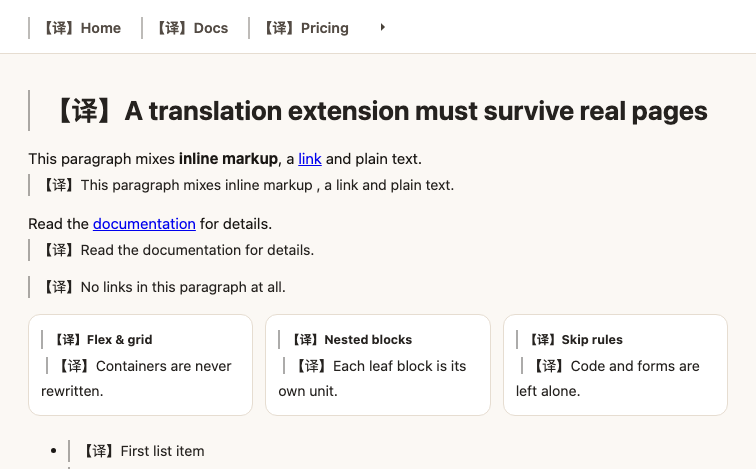
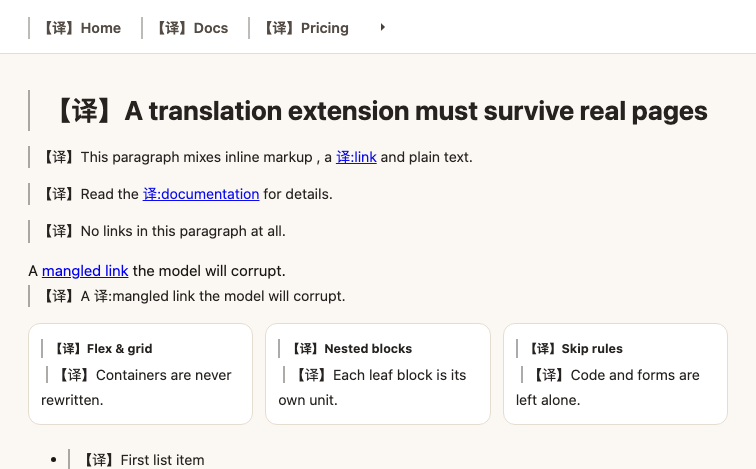
feat: 「仅译文」模式下的译文也带可点击的超链接
此前仅译文模式对含链接的段落只能退回双语（隐藏原文会连带隐藏 <a>）。现在改用
占位符对齐，让译文自己带上链接：

1. 扫描阶段把每个 <a href> 的文字包成 ⟦1⟧链接文字⟦/1⟧，并记下元素引用
2. 提示词要求模型原样保留成对标记
3. 译文回来后按标记切成「文本段 / 链接段」重建译文节点：文本用文本节点，链接用
   cloneNode(false) 浅克隆（保留 href/class/target），链接文字放进克隆体

三级降级，保证模型写坏标记时不会出乱码：
- 标记完整       -> 重建，译文里链接可点
- 标记残缺/重号  -> 该段退回「保留原文 + 译文」，链接照常可用
- 用户显式选择   -> 允许「严格替换」（接受丢链接）

踩的坑：第一版清洗正则 /⟦\/?\d+⟧/g 匹配不到 ⟧/1⟧ 这种「缺了开括号」的残缺形态
（模型真的会这么写），页面上留下了乱码。改用容错正则，并新增一个专门模拟模型
写坏标记的 E2E 用例，断言「不残留乱码 + 链接仍可用」。

设置项 page.replaceLinkMode：translate（默认）/ keep / strict。
显示模式变化时改为触发 retranslate（走缓存），因为两种模式的 DOM 结构不同。

真机效果（Wikipedia，仅译文模式）：
  442 段全译，427 段真正替换了原文（此前只有 75 段）
  519 个链接全部可见可点，链接文字也翻译了（Donate -> 捐赠）
  残留乱码 0

测试：test-core 77 + test-dom 48 + e2e 37，全绿

diff --git a/src/content/page/render.js b/src/content/page/render.js
@@ -30,6 +30,16 @@
   const TEXTWRAP_CLASS = 'lingua-pg-textwrap';
   const ROOT_FLAG = 'lingua-pg-show-src';
   const LINK_MARK = 'linguaLink';
+  const LINK_OK = 'linguaLinkKept';
+
+  const MARK_RE = /⟦(\d+)⟧([\s\S]*?)⟦\/\1⟧/g;
+  /**
+   * Tolerant cleanup for placeholder residue. Models occasionally emit a mangled
+   * marker (observed in the wild: `⟦1⟧X⟦/1⟧` came back as `X⟧/1⟧`, losing the
+   * opening bracket). A strict pattern would leave that on screen, so match any
+   * bracket run that still looks like a marker.
+   */
+  const MARK_ANY_RE = /⟦\s*\/?\s*\d*\s*⟧?|⟧\s*\/?\s*\d*\s*⟧?|\/\s*\d+\s*⟧/g;
 
   const CSS = `
 .lingua-pg-dst{
@@ -139,6 +149,61 @@ html.${ROOT_FLAG} .lingua-pg-replace > .lingua-pg-src{ display:revert; }
     return parent;
   }
 
+  /** Remove any leftover placeholders (used for bilingual display and safety). */
+  function stripMarks(text) {
+    return String(text || '').replace(MARK_ANY_RE, '');
+  }
+
+  /**
+   * Split a translated block back into text runs and link runs using the
+   * placeholders the scanner inserted. Returns null when the model dropped,
+   * duplicated or renumbered a marker — the caller then keeps the original
+   * visible instead of silently losing the links.
+   *
+   * @returns {Array<{type:'text'|'link', value:string, index?:number}>|null}
+   */
+  function parseMarked(text, expected) {
+    const src = String(text || '');
+    if (!expected) return null;
+    const parts = [];
+    const seen = new Set();
+    let last = 0;
+    let m;
+    MARK_RE.lastIndex = 0;
+    while ((m = MARK_RE.exec(src))) {
+      const idx = Number(m[1]);
+      if (!(idx >= 1 && idx <= expected) || seen.has(idx)) return null;
+      seen.add(idx);
+      if (m.index > last) parts.push({ type: 'text', value: src.slice(last, m.index) });
+      parts.push({ type: 'link', index: idx, value: m[2] });
+      last = m.index + m[0].length;
+    }
+    if (last < src.length) parts.push({ type: 'text', value: src.slice(last) });
+    if (seen.size !== expected) return null;
+    return parts;
+  }
+
+  /** Rebuild the translated block, cloning the real links so they stay clickable. */
+  function buildMarked(parts, marks) {
+    const frag = document.createDocumentFragment();
+    for (const p of parts) {
+      if (p.type === 'text') {
+        const value = stripMarks(p.value);
+        if (value.trim()) frag.appendChild(document.createTextNode(value));
+        continue;
+      }
+      const src = marks[p.index - 1];
+      if (!src) continue;
+      // Shallow clone: keeps href/class/target so the link looks and works right.
+      const clone = src.cloneNode(false);
+      clone.setAttribute('translate', 'no');
+      clone.setAttribute('data-lingua-node', '1');
+      clone.textContent = stripMarks(p.value);
+      frag.appendChild(clone);
+    }
+    return frag;
+  }
+
   /**
    * @param {object} unit   from units.collect()
    * @param {string} text   translated text
@@ -161,10 +226,22 @@ html.${ROOT_FLAG} .lingua-pg-replace > .lingua-pg-src{ display:revert; }
     }
 
     const el = unit.el;
-    // Replace mode hides the original — which would take any hyperlink with it.
-    // A unit that contains a real link therefore always keeps its source,
-    // unless the user explicitly opted out.
-    const replacing = mode === 'replace' && !(unit.hasLink && opts.keepLinks !== false);
+    const linkMode = (opts && opts.linkMode) || 'translate';
+
+    // Decide whether the source can be hidden.
+    let replacing = mode === 'replace';
+    let parts = null;
+    if (replacing && unit.hasLink) {
+      if (linkMode === 'keep') {
+        replacing = false; // keep the original so its links stay usable
+      } else if (linkMode === 'translate') {
+        // Rebuild the translation with its own links; if the model broke the
+        // placeholders we cannot, so fall back to keeping the original.
+        parts = unit.marks && unit.marks.length ? parseMarked(text, unit.marks.length) : null;
+        if (!parts) replacing = false;
+      }
+      // linkMode === 'strict': replace and accept that the links are lost
+    }
 
     const host = unit.wrap ? ensureTextWrap(el) : el;
     if (!host) return;
@@ -177,10 +254,20 @@ html.${ROOT_FLAG} .lingua-pg-replace > .lingua-pg-src{ display:revert; }
     if (!unit.wrap && replacing) ensureSrc(el, dst);
 
     el.classList.toggle('lingua-pg-replace', replacing);
-    if (unit.hasLink && el.dataset) el.dataset[LINK_MARK] = '1';
+    if (unit.hasLink && el.dataset) {
+      el.dataset[LINK_MARK] = '1';
+      if (parts) el.dataset[LINK_OK] = '1';
+      else delete el.dataset[LINK_OK];
+    }
 
     dst.className = DST_CLASS + (unit.inline ? ' lingua-pg-inline' : '') + styleClass(style);
-    if (dst.textContent !== text) dst.textContent = text;
+    if (parts) {
+      dst.textContent = '';
+      dst.appendChild(buildMarked(parts, unit.marks));
+    } else {
+      const plain = stripMarks(text);
+      if (dst.textContent !== plain) dst.textContent = plain;
+    }
     if (el.dataset) el.dataset.lingua = 'done';
   }
 
@@ -204,16 +291,19 @@ html.${ROOT_FLAG} .lingua-pg-replace > .lingua-pg-src{ display:revert; }
   function restyle(opts) {
     const mode = (opts && opts.mode) || 'bilingual';
     const style = (opts && opts.style) || 'underline';
-    const keepLinks = !opts || opts.keepLinks !== false;
+    const linkMode = (opts && opts.linkMode) || 'translate';
 
     for (const node of document.querySelectorAll('.' + DST_CLASS)) {
       const inline = node.classList.contains('lingua-pg-inline');
       node.className = DST_CLASS + (inline ? ' lingua-pg-inline' : '') + styleClass(style);
       const el = unitElementOf(node);
       if (!el) continue;
-      // Units holding a link deliberately stay bilingual — never hide them.
+      // A linked unit may only be hidden when the translation itself carries the
+      // links (or the user asked for strict replacement).
       const linked = el.dataset && el.dataset[LINK_MARK] === '1';
-      el.classList.toggle('lingua-pg-replace', mode === 'replace' && !(linked && keepLinks));
+      const keptLinks = el.dataset && el.dataset[LINK_OK] === '1';
+      const canHide = !linked || linkMode === 'strict' || (linkMode === 'translate' && keptLinks);
+      el.classList.toggle('lingua-pg-replace', mode === 'replace' && canHide);
     }
 
     if (mode === 'replace') {
@@ -253,6 +343,8 @@ html.${ROOT_FLAG} .lingua-pg-replace > .lingua-pg-src{ display:revert; }
 
     for (const el of document.querySelectorAll('[data-lingua]')) {
       delete el.dataset.lingua;
+      delete el.dataset[LINK_MARK];
+      delete el.dataset[LINK_OK];
       el.classList.remove('lingua-pg-replace');
     }
 

diff --git a/src/content/page/units.js b/src/content/page/units.js
@@ -66,6 +66,11 @@
 
   const MAX_UNIT_CHARS = 3000;
   const MIN_UNIT_CHARS = 2;
+  const MAX_MARKS = 16;
+
+  /** Inline placeholders that protect hyperlinks through the translation round-trip. */
+  const MARK_OPEN = '⟦';
+  const MARK_CLOSE = '⟧';
 
   /** Any letter in any script — digits/symbols alone are not worth a request. */
   const HAS_LETTER = /\p{L}/u;
@@ -205,7 +210,17 @@
 
       const structural = STRUCTURAL.has(el.tagName);
       if (!containers.has(el) && (!structural || !hasDescendableChild(el))) {
-        const text = textOf(el);
+        const hasLink = hasLinkChild(el);
+        let text = textOf(el);
+        let marks = null;
+        if (hasLink) {
+          // Protect the links with placeholders so the translation can keep them.
+          const marked = markLinks(el);
+          if (marked.marks.length) {
+            text = marked.text;
+            marks = marked.marks;
+          }
+        }
         if (isTranslatable(text)) {
           let cs = null;
           try {
@@ -221,7 +236,8 @@
                 text,
                 display: cs.display,
                 inline: cs.display.indexOf('inline') === 0,
-                hasLink: hasLinkChild(el),
+                hasLink,
+                marks,
                 top: rectTop(el, scrollY),
               });
               return;
@@ -273,6 +289,50 @@
     } catch (e) {
       return false;
     }
+  }
+
+  /**
+   * Build the text of a link-bearing unit with inline placeholders around each
+   * link, e.g. `Read the ⟦1⟧documentation⟦/1⟧ for details.`
+   *
+   * The model translates the text but keeps the markers, so the translation can
+   * be rebuilt with working links instead of losing them. Verified against a real
+   * endpoint: 5/5 marker pairs preserved, link text translated.
+   *
+   * @returns {{text: string, marks: Element[]}}
+   */
+  function markLinks(el) {
+    const marks = [];
+    let out = '';
+    const walkNode = (node) => {
+      const kids = node.childNodes;
+      for (let i = 0; i < kids.length; i++) {
+        const n = kids[i];
+        if (n.nodeType === 3) {
+          out += n.nodeValue + ' ';
+          continue;
+        }
+        if (n.nodeType !== 1) continue;
+        const tag = n.tagName;
+        if (classNameOf(n).indexOf('lingua-') !== -1) continue;
+        if (tag === 'A' && n.getAttribute('href')) {
+          const inner = (n.textContent || '').replace(/\s+/g, ' ').trim();
+          if (!inner) continue;
+          const idx = marks.length + 1;
+          if (idx > MAX_MARKS) {
+            out += inner + ' '; // too many links — keep the text, drop the marker
+            continue;
+          }
+          marks.push(n);
+          out += `${MARK_OPEN}${idx}${MARK_CLOSE}${inner}${MARK_OPEN}/${idx}${MARK_CLOSE}`;
+          continue;
+        }
+        if (SKIP_TAGS.has(tag)) continue;
+        walkNode(n);
+      }
+    };
+    walkNode(el);
+    return { text: out.replace(/\s+/g, ' ').trim(), marks };
   }
 
   /** Elements that carry no translatable text of their own. */
@@ -362,10 +422,13 @@
     refreshPositions,
     isTranslatable,
     textOf,
+    markLinks,
     SKIP_TAGS,
     BLOCK_TAGS,
     STRUCTURAL,
     ATTRS,
     MAX_UNIT_CHARS,
+    MARK_OPEN,
+    MARK_CLOSE,
   };
 })(typeof globalThis !== 'undefined' ? globalThis : self);

diff --git a/src/options/options.html b/src/options/options.html
@@ -139,11 +139,18 @@
             <span>同时翻译表单占位符、title、alt 等提示文字</span>
           </label>
 
-          <label class="switch field">
-            <input type="checkbox" id="pageKeepLinks" />
-            <span class="switch__track"></span>
-            <span>「仅译文」模式下保留含链接的段落原文（避免链接失效）</span>
-          </label>
+          <div class="field">
+            <label class="label" for="pageLinkMode">「仅译文」模式如何处理含链接的段落</label>
+            <select id="pageLinkMode">
+              <option value="translate">译文里保留链接（推荐）</option>
+              <option value="keep">保留原文 + 译文（链接用原链接）</option>
+              <option value="strict">严格替换（链接会丢失）</option>
+            </select>
+            <div class="hint">
+              「译文里保留链接」会把链接包成占位符一起送去翻译，回来再重建，因此译文里的链接也能点。
+              若模型弄坏了占位符，会自动退回「保留原文 + 译文」。
+            </div>
+          </div>
 
           <div class="field">
             <label class="label" for="pageSkipSelectors">忽略选择器（逗号分隔）</label>

diff --git a/src/options/options.js b/src/options/options.js
@@ -291,7 +291,7 @@
     $('pageMaxChars').value = p.maxChars;
     $('pageConcurrency').value = p.concurrency;
     $('pageInputs').checked = !!p.translateInputs;
-    $('pageKeepLinks').checked = p.replacePreservesLinks !== false;
+    $('pageLinkMode').value = p.replaceLinkMode || 'translate';
     $('pageSkipSelectors').value = p.skipSelectors || '';
     $('pageAutoSites').value = (p.autoSites || []).join('\n');
     $('pageSkipSites').value = (p.skipSites || []).join('\n');
@@ -327,9 +327,7 @@
     $('pageMode').addEventListener('change', () => save({ page: { displayMode: $('pageMode').value } }));
     $('pageStyle').addEventListener('change', () => save({ page: { style: $('pageStyle').value } }));
     $('pageInputs').addEventListener('change', () => save({ page: { translateInputs: $('pageInputs').checked } }));
-    $('pageKeepLinks').addEventListener('change', () =>
-      save({ page: { replacePreservesLinks: $('pageKeepLinks').checked } })
-    );
+    $('pageLinkMode').addEventListener('change', () => save({ page: { replaceLinkMode: $('pageLinkMode').value } }));
     $('pageSkipSelectors').addEventListener('input', () =>
       saveDebounced({ page: { skipSelectors: $('pageSkipSelectors').value } })
     );

diff --git a/src/content/page/index.js b/src/content/page/index.js
@@ -88,7 +88,7 @@
     return {
       mode: state.mode,
       style: state.style,
-      keepLinks: !(settings && settings.page && settings.page.replacePreservesLinks === false),
+      linkMode: (settings && settings.page && settings.page.replaceLinkMode) || 'translate',
     };
   }
 
@@ -404,6 +404,8 @@
   /** React to settings changes without re-scanning. */
   function update(s) {
     if (!s) return;
+    const prevMode = state.mode;
+    const prevLinkMode = renderOpts().linkMode;
     settings = s;
     state.mode = (s.page && s.page.displayMode) || 'bilingual';
     state.style = (s.page && s.page.style) || 'underline';
@@ -411,7 +413,16 @@
       if (state.active) stop();
       return;
     }
-    if (state.active) page.render.restyle(renderOpts());
+    if (!state.active) return;
+
+    if (state.mode !== prevMode || renderOpts().linkMode !== prevLinkMode) {
+      // Switching between bilingual and "translated only" changes the DOM shape
+      // (source wrapper, link placeholders), so rebuild from the cache rather
+      // than trying to patch the existing nodes in place.
+      retranslate();
+      return;
+    }
+    page.render.restyle(renderOpts());
   }
 
   function toggleOriginal() {

diff --git a/src/background/providers/prompts.js b/src/background/providers/prompts.js
@@ -36,6 +36,7 @@
         '5. Translate UI labels, buttons, menus and navigation items concisely — match the tone of the surrounding product.',
         '6. Keep the register of the original: marketing copy stays persuasive, docs stay neutral and precise.',
         '7. If a block is untranslatable (a code snippet, a symbol, a bare number), output it unchanged.',
+        '8. Link markers look like ⟦1⟧link text⟦/1⟧. Keep every marker pair EXACTLY as it is: never translate, rename, renumber, reorder, drop or duplicate them, and keep each ⟦n⟧ matched with its ⟦/n⟧. Translate only the text between them, and keep the markers where that link belongs in the translated sentence.',
       ].join('\n');
     }
 

diff --git a/src/shared/constants.js b/src/shared/constants.js
@@ -159,7 +159,7 @@
       skipSites: [], // hostnames the extension never touches
       skipSelectors: '', // extra CSS selectors to ignore, comma separated
       translateInputs: false, // also translate placeholder/alt/title attributes
-      replacePreservesLinks: true, // in "translated only" mode keep blocks that contain links
+      replaceLinkMode: 'translate', // translate | keep | strict — how "translated only" treats blocks with links
     },
     providers: {
       openai: {

diff --git a/README.md b/README.md
@@ -155,7 +155,21 @@ Headers: { "Authorization": "Bearer {{key}}", "Content-Type": "application/json"
 
 **① flex/grid 会把子元素「块级化」。** 一个 `<span>` 一旦成为 flex item，它的 computed `display` 就变成 `block`。如果拿 computed display 去判断「这个子元素是不是块级边界」，就会把普通的 flex 容器误判成容器，导致**容器自己的文本被整段跳过** —— GitHub 导航栏的 `Platform` 按钮就是这么漏掉的。修法是：父元素是 flex/grid 时，不用 computed display 判断子元素是否分隔内容。
 
-**② 「仅译文」模式会连超链接一起藏掉。** 把原文整体隐藏，里面的 `<a>` 自然也看不见了。所以**含链接的段落会自动保持双语**，链接照常可点。Wikipedia 这类链接密集的页面里，这条规则会让大部分段落保持双语——这是刻意的取舍，可以在设置里关掉（「仅译文模式下保留含链接的段落原文」）。
+**② 「仅译文」模式会连超链接一起藏掉。** 把原文整体隐藏，里面的 `<a>` 自然也看不见了。
+
+解法是**占位符对齐**：把链接包成 `⟦1⟧链接文字⟦/1⟧` 一起送去翻译，提示词要求模型原样保留标记，译文回来后按标记重建，于是**译文里也有可点的链接**：
+
+```
+输入  Read the ⟦1⟧documentation⟦/1⟧ for details.
+译文  详情请阅读⟦1⟧文档⟦/1⟧。
+渲染  <p><span class="lingua-pg-dst">详情请阅读<a href="…">文档</a>。</span></p>
+```
+
+实测 Wikipedia：**453 段里 427 段真正替换了原文**（此前只有 75 段），**519 个链接全部可见可点**，链接文字也跟着翻译了（`Donate` → `捐赠`）。
+
+**模型偶尔会写坏标记**（实测 519 个链接里出现 1 次：`⟦1⟧X⟦/1⟧` 被写成 `X⟧/1⟧`）。这时**该段落自动退回「保留原文 + 译文」**，链接照常可用，并且会清洗掉残缺标记——绝不会在页面上留下 `⟦` 之类的乱码。
+
+设置页可以三选一：「译文里保留链接」（默认）/「保留原文 + 译文」/「严格替换（链接会丢失）」。
 
 ### 渲染方式
 
@@ -359,6 +373,7 @@ npm run inspect -- youtube.com
 - **为什么用播放器的 `pot` 而不是自己算？** BotGuard 的挑战需要一整套 VM，自己算既复杂又容易随 YouTube 更新失效；播放器已经把 token 拿到手了，直接复用最稳，而且实测该 token 绑定的是「视频+会话」而非具体轨道，可以跨轨复用。
 - **为什么宁可选原始语言轨也不选人工字幕？** 人工轨未必完整（实测有一条只覆盖 34/336 秒），而原始语言轨是播放器自己依赖的轨，完整性有保证。用户仍可在弹窗里手动指定源语言覆盖这一默认行为。
 - **为什么 flex 容器自己的文本要单独处理？** 直接在 flex 容器里追加一个块级译文会变成一个 flex item、改变布局；而把**它自己的文本节点**包进一个行内 span 是布局中性的（正好顶替原来的匿名 flex item）。代价是译文只能行内排布，双语模式下按钮可能因此变宽换行——这是双语模式的固有代价。
-- **为什么「仅译文」对含链接的段落让步？** 隐藏原文会连带隐藏 `<a>`，用户就再也点不到链接了。与其做一个会悄悄破坏页面的「干净」模式，不如让它在这种情况下退化为双语，并把开关交给用户。
+- **为什么「仅译文」不直接隐藏原文了事？** 隐藏原文会连带隐藏 `<a>`，用户就再也点不到链接。所以用占位符把链接保护起来、译文里重建；一旦模型写坏标记就退回双语，并把开关交给用户。
+- **为什么占位符用 `⟦⟧` 这种少见字符？** 它必须足够罕见，才不会和正文冲突；同时在提示词里明确「原样保留」后，模型对成对标记的保留率很高（实测 519 个链接只坏 1 个）。
 - **为什么首屏优化选「小批次优先」而不是「更大并发」？** 并发受限于接口限流，而且用户感知的是**第一句出现的时间**，不是全部翻完的时间。先把 4 句放上屏幕，剩下的慢慢补。
 - **为什么关闭推理要带自动回退？** 各家关闭推理的参数名不统一，而发送不认识的字段有接口会直接 400。默认关闭 + 400 时自动去掉参数重试，等于「有加速就拿，拿不到也不出错」，比让用户自己去查各家文档靠谱。
